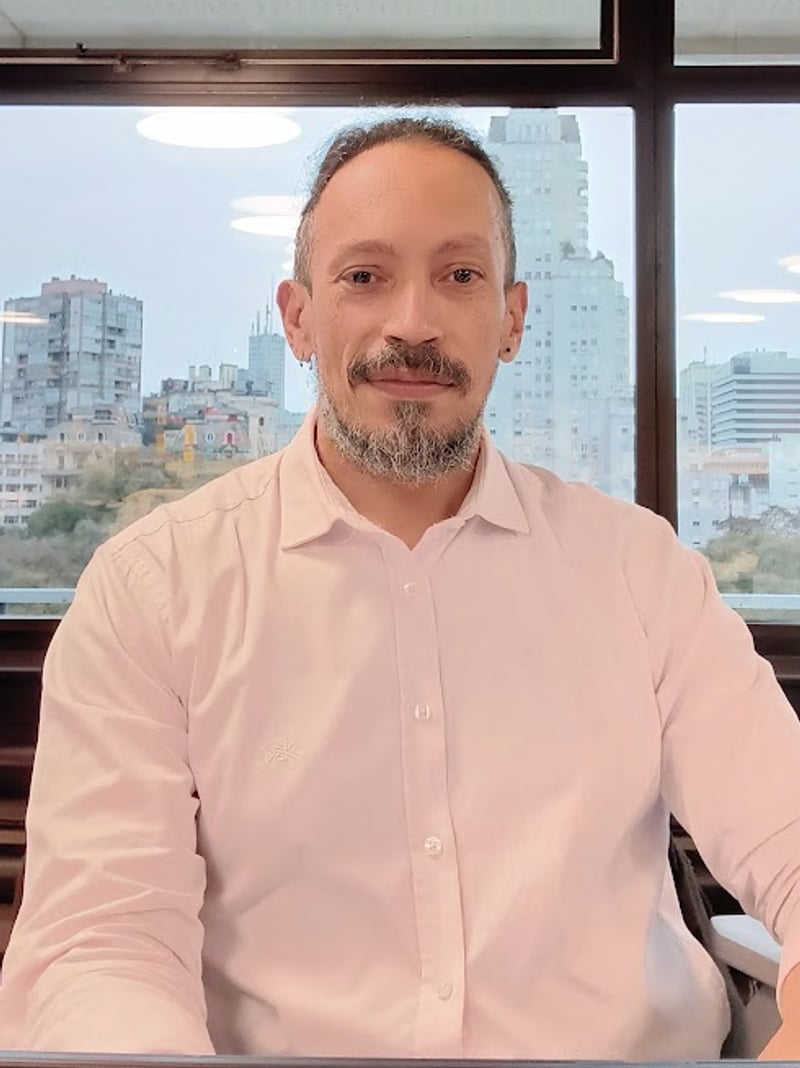
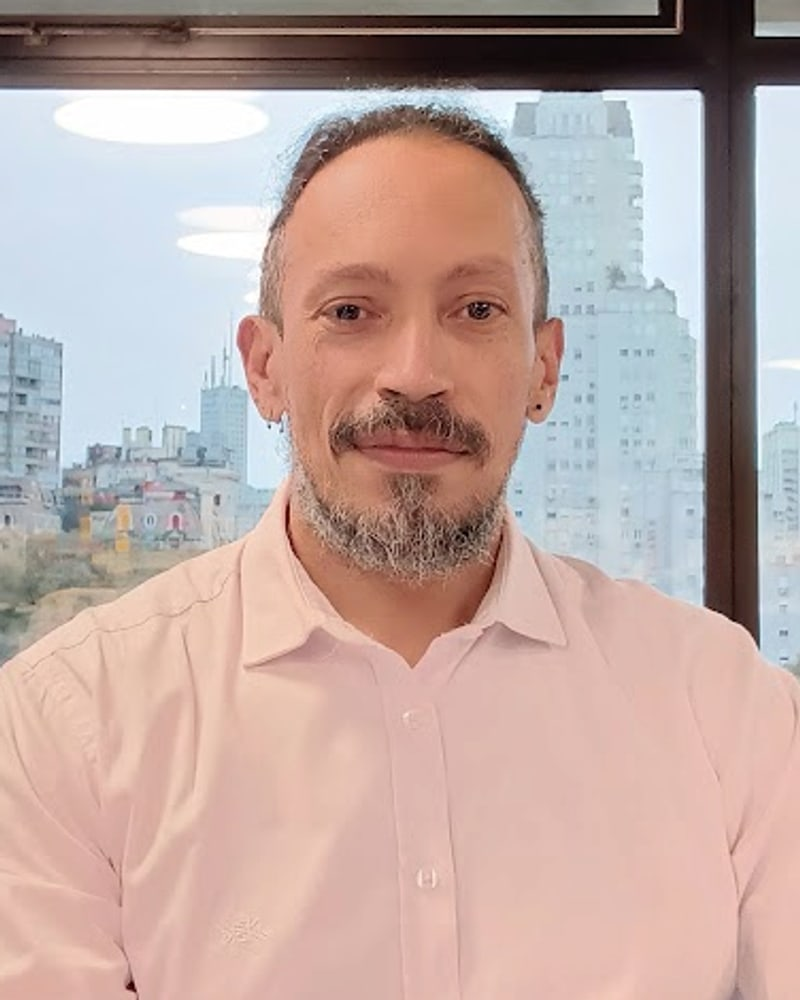
Foto con recorte más cercano: rostro y dos botones
Claude-Session: https://claude.ai/code/session_01SM9Anh8iQFBrL4DiQMgejn

diff --git a/src/styles/main.scss b/src/styles/main.scss
@@ -109,7 +109,7 @@ h1, h2, h3 { text-wrap: balance; }
   margin: 0; background: $blanco; border: 2px solid $tinta; padding: 14px 14px 0; transform: rotate(2.2deg);
   box-shadow: 10px 10px 0 $petroleo;
 }
-.polaroid img { display: block; width: 100%; height: auto; aspect-ratio: 4 / 5; object-fit: cover; object-position: 50% 25%; border: 2px solid $tinta; }
+.polaroid img { display: block; width: 100%; height: auto; aspect-ratio: 4 / 5; object-fit: cover; object-position: 50% 40%; border: 2px solid $tinta; }
 .polaroid figcaption { padding: 12px 2px 14px; font-size: .92rem; font-style: italic; color: $gris; }
 .sello {
   position: absolute; top: -18px; left: -22px; z-index: 1; transform: rotate(-6deg);
